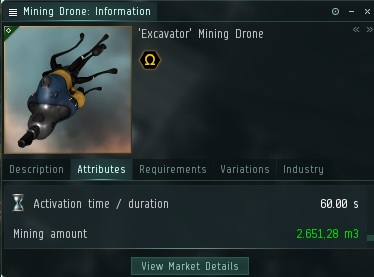
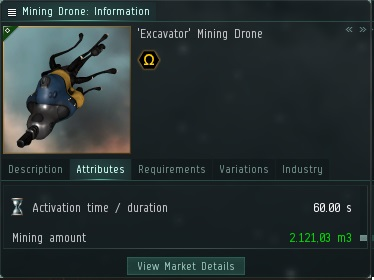
Nerfed Base Yield of Excavator Mining Drone from 100 to 80

diff --git a/README.md b/README.md
@@ -116,7 +116,7 @@ This value is calculated as followed:
 		* (1 + 0.10 ) # medium mining drone augmentor I
 		* (1 + 5.00 ); # 500% ic2 bonus
 
-	printf("%3.2f", $drone_yield_per_second); # prints 2651.28
+	printf("%3.2f", $drone_yield_per_second); # prints 2121.03
 ```
 
 The outcome for all kinds of mining drones is this. 
@@ -135,9 +135,9 @@ All numbers in m3 per 60s cycle per drone (ingame values listed for proving the 
 |        Hulk|   68.19|   90.01|  100.92|  114.56|     N/A|
 |    Porpoise|  168.77|  222.78|  249.79|  283.54|     N/A|
 |        Orca|  225.03|  297.04|  333.05|  378.05|     N/A|
-|     Rorqual|  112.52|  148.52|  166.52|  189.03|  450.06|
-|Rorqual ICT1|  562.58|  742.60|  832.62|  945.13| 2250.32|
-|Rorqual ICT2|  675.09|  891.13|  999.14| 1134.16| 2700.38|
+|     Rorqual|  112.52|  148.52|  166.52|  189.03|  360.05|
+|Rorqual ICT1|  562.58|  742.60|  832.62|  945.13| 1800.25|
+|Rorqual ICT2|  675.09|  891.13|  999.14| 1134.16| 2160.30|
 
 
 [eXistence_42](https://www.reddit.com/user/eXistence_42) [requested](https://www.reddit.com/r/Eve/comments/ai2oy4/eveonlineminingyield_calculation_only_for_ore/eekm9bu) the mining yield for the drones to be comparable to the ship yield numbers. For this purpose the yield value is multiplied by the number of drones (2 for the venture and 5 for other ships) and divided by the 60s cycle duration. Note that it leaves out the travel time between the drones and the ship, so the real numbers will be lower than listed here.
